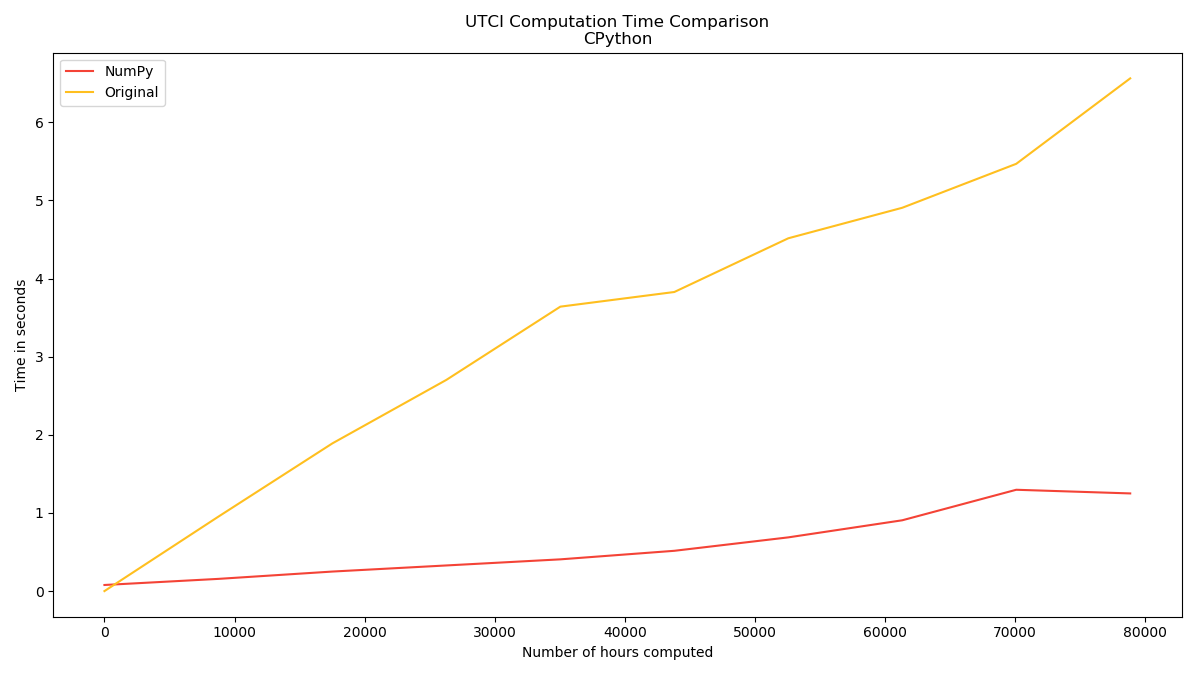
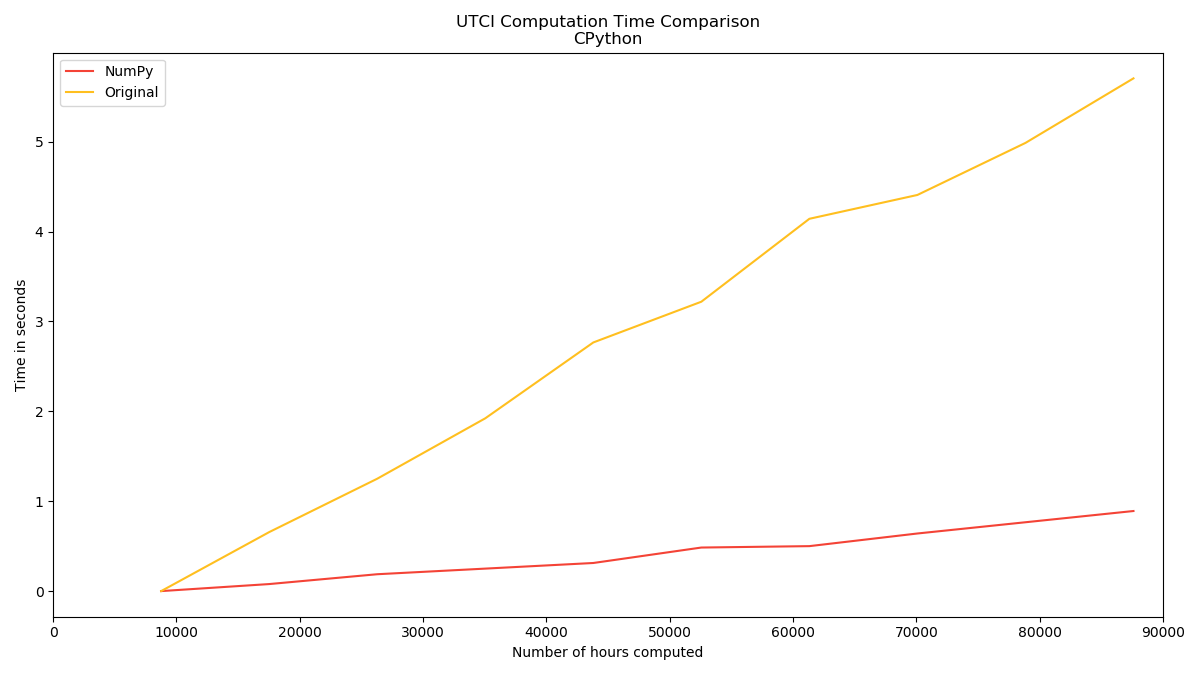
update utci speed tests

diff --git a/content/scripts/utci_speed.py b/content/scripts/utci_speed.py
@@ -15,7 +15,7 @@ from content.scripts.utci_implementations import *
 # -------------------------------------------------------------------------------------------------------------------- #
 # UTCI Speed Tests
 
-epw_path = r'C:\Users\Christian\Dropbox\Uddannelse\DTU\Diverse\EPW_WeatherData\DNK_Copenhagen.061800_IWEC.epw'
+epw_path = r'C:\Users\ocni\Dropbox\Uddannelse\DTU\Diverse\EPW_WeatherData\DNK_Copenhagen.061800_IWEC.epw'
 epw = EPW()
 epw.read(epw_path)
 
@@ -81,7 +81,7 @@ slow_time = [time_slow_utci(i)
 colors = ['#F44336', '#FFBF1F', '#57DA10', '#12B2FF', '#7D1BDA']
 
 hours = [(h * 8760)
-         for h in range(1, 10)]
+         for h in range(1, 11)]
 
 plt.figure(figsize=(12, 6.75))
 plt.title('UTCI Computation Time Comparison\nCPython')
@@ -90,6 +90,7 @@ plt.plot(hours, slow_time, label='Original', color=colors[1])
 plt.legend()
 plt.ylabel('Time in seconds')
 plt.xlabel('Number of hours computed')
+plt.xlim(0, 90000)
 plt.tight_layout()
 
 ladybug_item_time = [6.7, 9.0, 13.8, 17.5, 21.6, 30, 37.5, 38.3, 39.0, 50.0]
@@ -106,6 +107,7 @@ plt.plot(hours, livestock_time, label='Livestock', color=colors[0])
 plt.legend()
 plt.ylabel('Time in seconds')
 plt.xlabel('Number of hours computed')
+plt.xlim(0, 90000)
 plt.tight_layout()
 
 plt.figure(figsize=(12, 6.75))
@@ -116,6 +118,7 @@ plt.plot(hours, ladybug_tree_time, label='Tree Inputs', color=colors[3])
 plt.legend()
 plt.ylabel('Time in seconds')
 plt.xlabel('Number of hours computed')
+plt.xlim(0, 90000)
 plt.tight_layout()
 
 plt.show()
